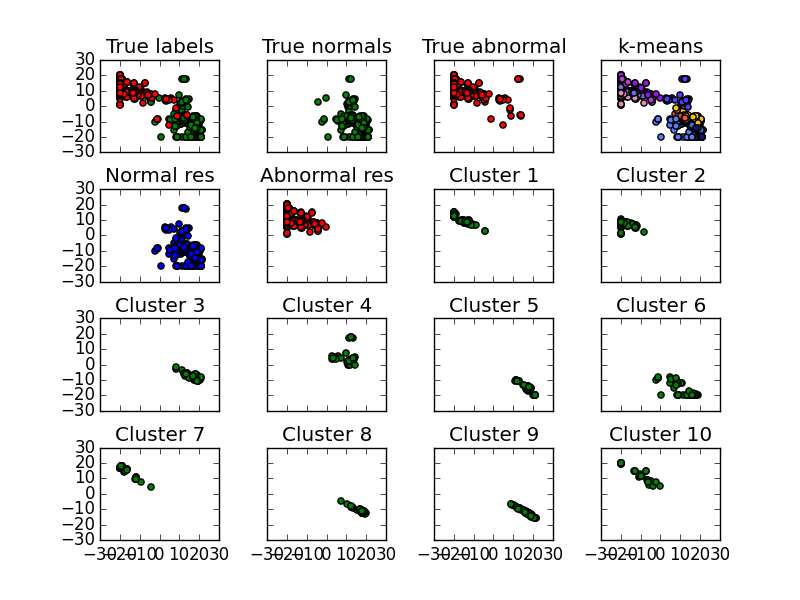
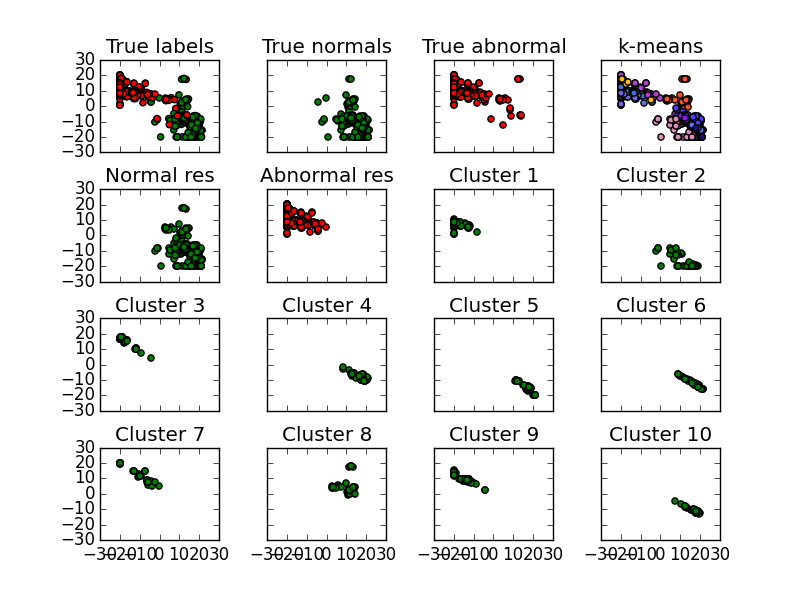
Added plots

diff --git a/main.py b/main.py
@@ -7,11 +7,11 @@ print (__doc__)
 import numpy as np
 import copy
 
+import pandas as pd
 import matplotlib
 import matplotlib.mlab
 import matplotlib.pyplot as plt
 from matplotlib import gridspec
-import pandas as pd
 from sklearn.cluster import KMeans
 from sklearn.cluster import SpectralClustering
 from sklearn.metrics import confusion_matrix
@@ -37,27 +37,20 @@ plot_lim_min = -30
 def plot_true_labels(ax, data_per_true_labels, title="", highlight_point = None):
     ax.set_title("True labels")
     for i, p in enumerate(data_per_true_labels) :
-        x = [t[0] for t in p]
-        y = [t[1] for t in p]
-        x = np.array(x)
-        y = np.array(y)
-        colors = []
-        if highlight_point == None :
-            if i == model.attack_normal:
-                colors.append('g')
-            else :
-                colors.append('r')
-#            for _ in range(len(x)):
-#                colors.append(colorhex.codes[i])
-        else :
-            for _ in range(len(x)):
-                if i == highlight_point :
-                    colors.append(colorhex.codes[i])
-                elif i == model.attack_normal:
-                    colors.append('g')
-                else :
-                    colors.append('r')
+        x = np.array([t[0] for t in p])
+        y = np.array([t[1] for t in p])
+        if i == model.attack_normal:
+            colors = ['g'] * len(x)
+            ax.scatter(x, y, c=colors)
+        elif i != model.attack_normal and i != highlight_point:
+            colors = ['r'] * len(x)
+            ax.scatter(x, y, c=colors)
 
+    if highlight_point != None :
+        p = data_per_true_labels[highlight_point]
+        x = np.array([t[0] for t in p])
+        y = np.array([t[1] for t in p])
+        colors = ['b'] * len(x)
         ax.scatter(x, y, c=colors)
 
 def plot_normal_label(ax, data_per_true_labels, title=""):
@@ -80,7 +73,14 @@ def plot_abnormal_label(ax, data_per_true_labels, title=""):
         if i != model.attack_normal:
             ax.scatter(x, y, c='r')
 
-def print_confusion_matrix(true_values, clusters, res):
+def print_confusion_matrix(true_values, clusters, res, highlight_point=None):
+#""" Print confusion matrix in log file
+#Param :
+#true_values : true label per each dataset
+#clusters : classified as normal or not
+#res : result from kmeans
+    #highlight_point
+#"""
     # confusion matrix
     y_true = []
     y_pred = []
@@ -107,6 +107,35 @@ def print_confusion_matrix(true_values, clusters, res):
     logger.debug("true_negative : " + str(m[1][1]) + " (" + str(m[1][1]*1.0 / s2) + ")")
     logger.debug("false_positive : " + str(m[1][0]) + " (" + str(m[1][0]*1.0 / s2) + ")")
     logger.debug("false_negative : " + str(m[0][1]) + " (" + str(m[0][1]*1.0 / s1) + ")")
+
+    if highlight_point != None :
+        # confusion matrix
+        y_true = []
+        y_pred = []
+    
+        for i, v in enumerate(true_values) :
+            if v == highlight_point :
+                y_true.append(1)
+                if clusters[ res[i] ] >= 0 :
+                    y_pred.append(0)
+                else :
+                    y_pred.append(1)
+    
+        logger.debug("")
+        logger.debug("highlight")
+        try :
+            m = confusion_matrix(list(y_true), list(y_pred))
+            s1 = m[0][0] + m[0][1]
+            s2 = m[1][1] + m[1][0]
+            logger.debug(m)
+            logger.debug("true_positive : " + str(m[0][0]) + " (" + str(m[0][0]*1.0 / s1) + ")")
+            logger.debug("true_negative : " + str(m[1][1]) + " (" + str(m[1][1]*1.0 / s2) + ")")
+            logger.debug("false_positive : " + str(m[1][0]) + " (" + str(m[1][0]*1.0 / s2) + ")")
+            logger.debug("false_negative : " + str(m[0][1]) + " (" + str(m[0][1]*1.0 / s1) + ")")
+
+        except IndexError :
+            logger.debug(y_true)
+            logger.debug(y_pred)
 
 def test_clustering(df, gmms, title="", save_to_file=False, highlight_point=None):
     df_train = copy.deepcopy(df)
@@ -170,14 +199,14 @@ def test_clustering(df, gmms, title="", save_to_file=False, highlight_point=None
 
     ##############################################################
     # plot true labels
-    plot_true_labels(ax1, data_per_true_labels, "True labels")
+    plot_true_labels(ax1, data_per_true_labels, "True labels", highlight_point)
     plot_normal_label(ax2, data_per_true_labels, "True normals")
     plot_abnormal_label(ax3, data_per_true_labels, "True abnormal")
 
     ##############################################################
     # plot predicted labels
     """
-    As we already know training set labels, we can seperate normal data from "known" abnormal data and "unknown" abnormal data.
+    As we already know "normal" training set labels, we can seperate normal data from "known" abnormal data and "unknown" abnormal data.
     """
     clusters = [0] * k
     for i, p in enumerate(cproj):
@@ -196,7 +225,7 @@ def test_clustering(df, gmms, title="", save_to_file=False, highlight_point=None
     ax5.set_title("Normal res")
     for i, p in enumerate(cproj):
         if clusters[ res[i] ] >= 0 :
-            ax5.scatter(p[0], p[1], c='b')
+            ax5.scatter(p[0], p[1], c='g')
 
     ##############################################################
     ax6.set_title("Abnormal res")
@@ -263,9 +292,10 @@ def test_clustering(df, gmms, title="", save_to_file=False, highlight_point=None
             ax16.scatter(p[0], p[1], c='g')
     ##############################################################
 
-    print_confusion_matrix(true_attack_types, clusters, res)
+    print_confusion_matrix(true_attack_types, clusters, res, highlight_point)
 
     if save_to_file == True :
+        print title + " has been saved"
         fig.savefig(today + "/" + title + ".png")
     else :
         plt.show()
